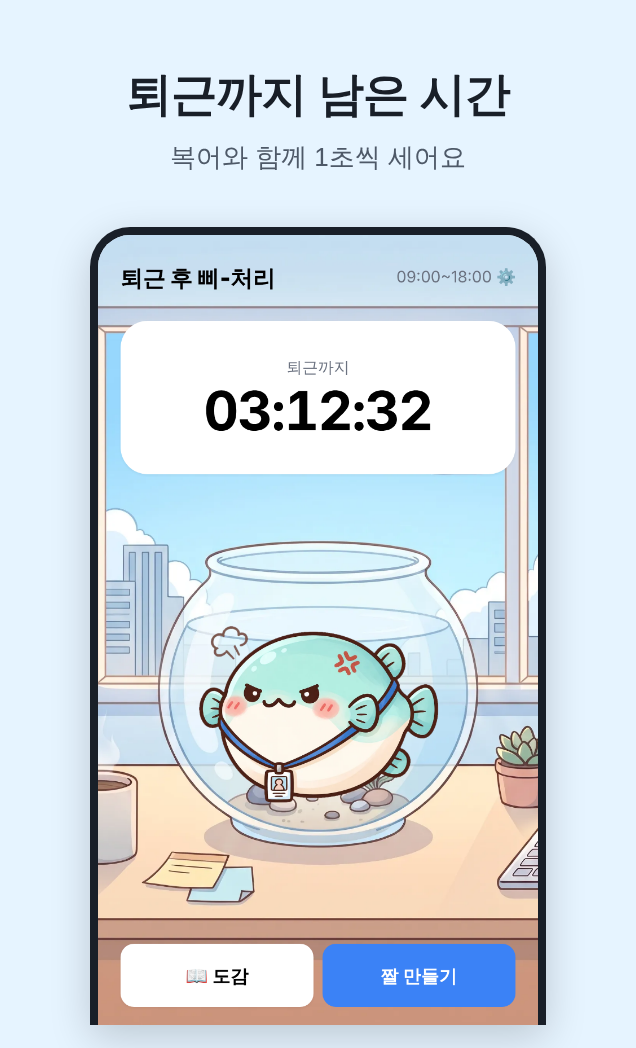
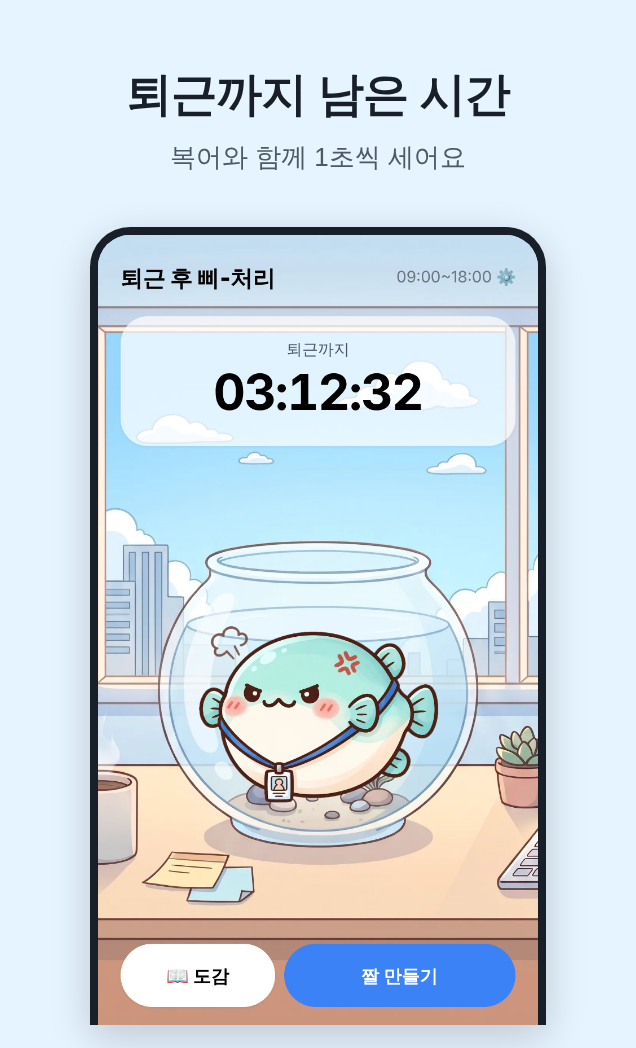
style(M4-3): 홈 시계 반투명·축소, 하단 버튼 알약형 2:3, 밤 도감 버튼 어둡게
Claude-Session: https://claude.ai/code/session_01HvWRb347jYjkHjAdftcxd1

diff --git a/src/App.jsx b/src/App.jsx
@@ -100,7 +100,7 @@ export default function App() {
         </button>
       </header>
 
-      <section className="relative mt-6 rounded-3xl bg-white p-8 shadow-sm">
+      <section className="relative mt-5 rounded-3xl bg-white/70 px-6 py-5 shadow-sm">
         <Countdown
           key={work.target.getTime()} // 목표가 바뀌면 타이머 리셋
           targetMs={work.target.getTime()}
@@ -110,10 +110,10 @@ export default function App() {
       </section>
 
       <nav className="fixed inset-x-0 bottom-0 flex gap-2 px-5 pt-3 pb-[calc(1rem+env(safe-area-inset-bottom))]">
-        <button className="flex-1 rounded-xl bg-white py-4 font-semibold shadow-sm" onClick={() => setShowCollection(true)}>
+        <button className={`flex-[2] rounded-full py-4 font-semibold shadow-sm ${night ? 'bg-black/40 text-white' : 'bg-white'}`} onClick={() => setShowCollection(true)}>
           📖 도감
         </button>
-        <button className="flex-1 rounded-xl bg-blue-500 py-4 font-semibold text-white disabled:bg-gray-300"
+        <button className="flex-[3] rounded-full bg-blue-500 py-4 font-semibold text-white disabled:bg-gray-300"
           disabled={!collected.length} onClick={() => setMeme({ oathId: null })}>
           짤 만들기
         </button>

diff --git a/src/components/Countdown.jsx b/src/components/Countdown.jsx
@@ -12,9 +12,9 @@ function Countdown({ targetMs, phase, onDone }) {
 
   return (
     <div className="text-center">
-      <p className="text-sm text-gray-500">{LABEL[phase]}</p>
+      <p className="text-sm text-gray-600">{LABEL[phase]}</p>
       {/* tabular-nums: 숫자 폭 고정 → 매초 글자 흔들림 방지 */}
-      <p className="mt-1 text-5xl font-bold tabular-nums tracking-tight" aria-live="off">
+      <p className="text-[2.75rem] font-bold leading-tight tabular-nums tracking-tight" aria-live="off">
         {pad2(h)}:{pad2(m)}:{pad2(s)}
       </p>
     </div>

diff --git a/docs/milestones/M4-3.md b/docs/milestones/M4-3.md
@@ -13,3 +13,4 @@
 - 2026-11-13 사용자: 토스 앱에서 짤 저장 → "이미지를 저장했어요"만 뜨고 저장 안 됨. 토스 안에서는 SDK `File.saveBase64`로 저장하도록 바꿈 (D-14 대안, M5 앞당김). 새 `.ait` 전달
 - 2026-11-13 사용자: 새 `.ait`에서 짤 저장 → 공유 시트가 먼저 뜨고, 취소하니 저장됨. 앱 코드는 토스 안에서 Web Share를 부르지 않으므로(SDK 경로가 먼저 return) 공유 시트는 토스 `File.saveBase64`의 네이티브 동작으로 봄. 문서에는 UI 설명 없음 (출처: https://developers-apps-in-toss.toss.im/documentation/sdk/domains-api/file/file.savebase64.md). 코드는 그대로, 기종(iOS/Android)·사진첩 실제 저장 여부는 확인 중
 - 2026-11-13 사용자 (Android): 갤러리에 이미지 저장 확인. 공유 시트에는 "이미지 저장" 항목이 없음 → 저장은 SDK가 하고, 공유 시트는 저장과 함께 뜨는 토스 기본 동작으로 확정. 코드 그대로. iOS 미확인
+- 2026-11-13 사용자: 홈 배치 손봄 (디자인 피드백 일부 채택). 시계 박스 반투명 흰색 `bg-white/70`(블러는 저사양 웹뷰 부담으로 뺌), 숫자 5xl→2.75rem·박스 높이 축소, 하단 버튼 알약형·도감:짤 = 2:3, 밤에는 도감 버튼 `bg-black/40`. 박스 제거·아이콘 전용 도감·파스텔 버튼은 안 함 (밝은 배경 대비, 첫날엔 짤 버튼이 비활성, 토스 주 버튼 색). 스크린샷 다시 찍음
